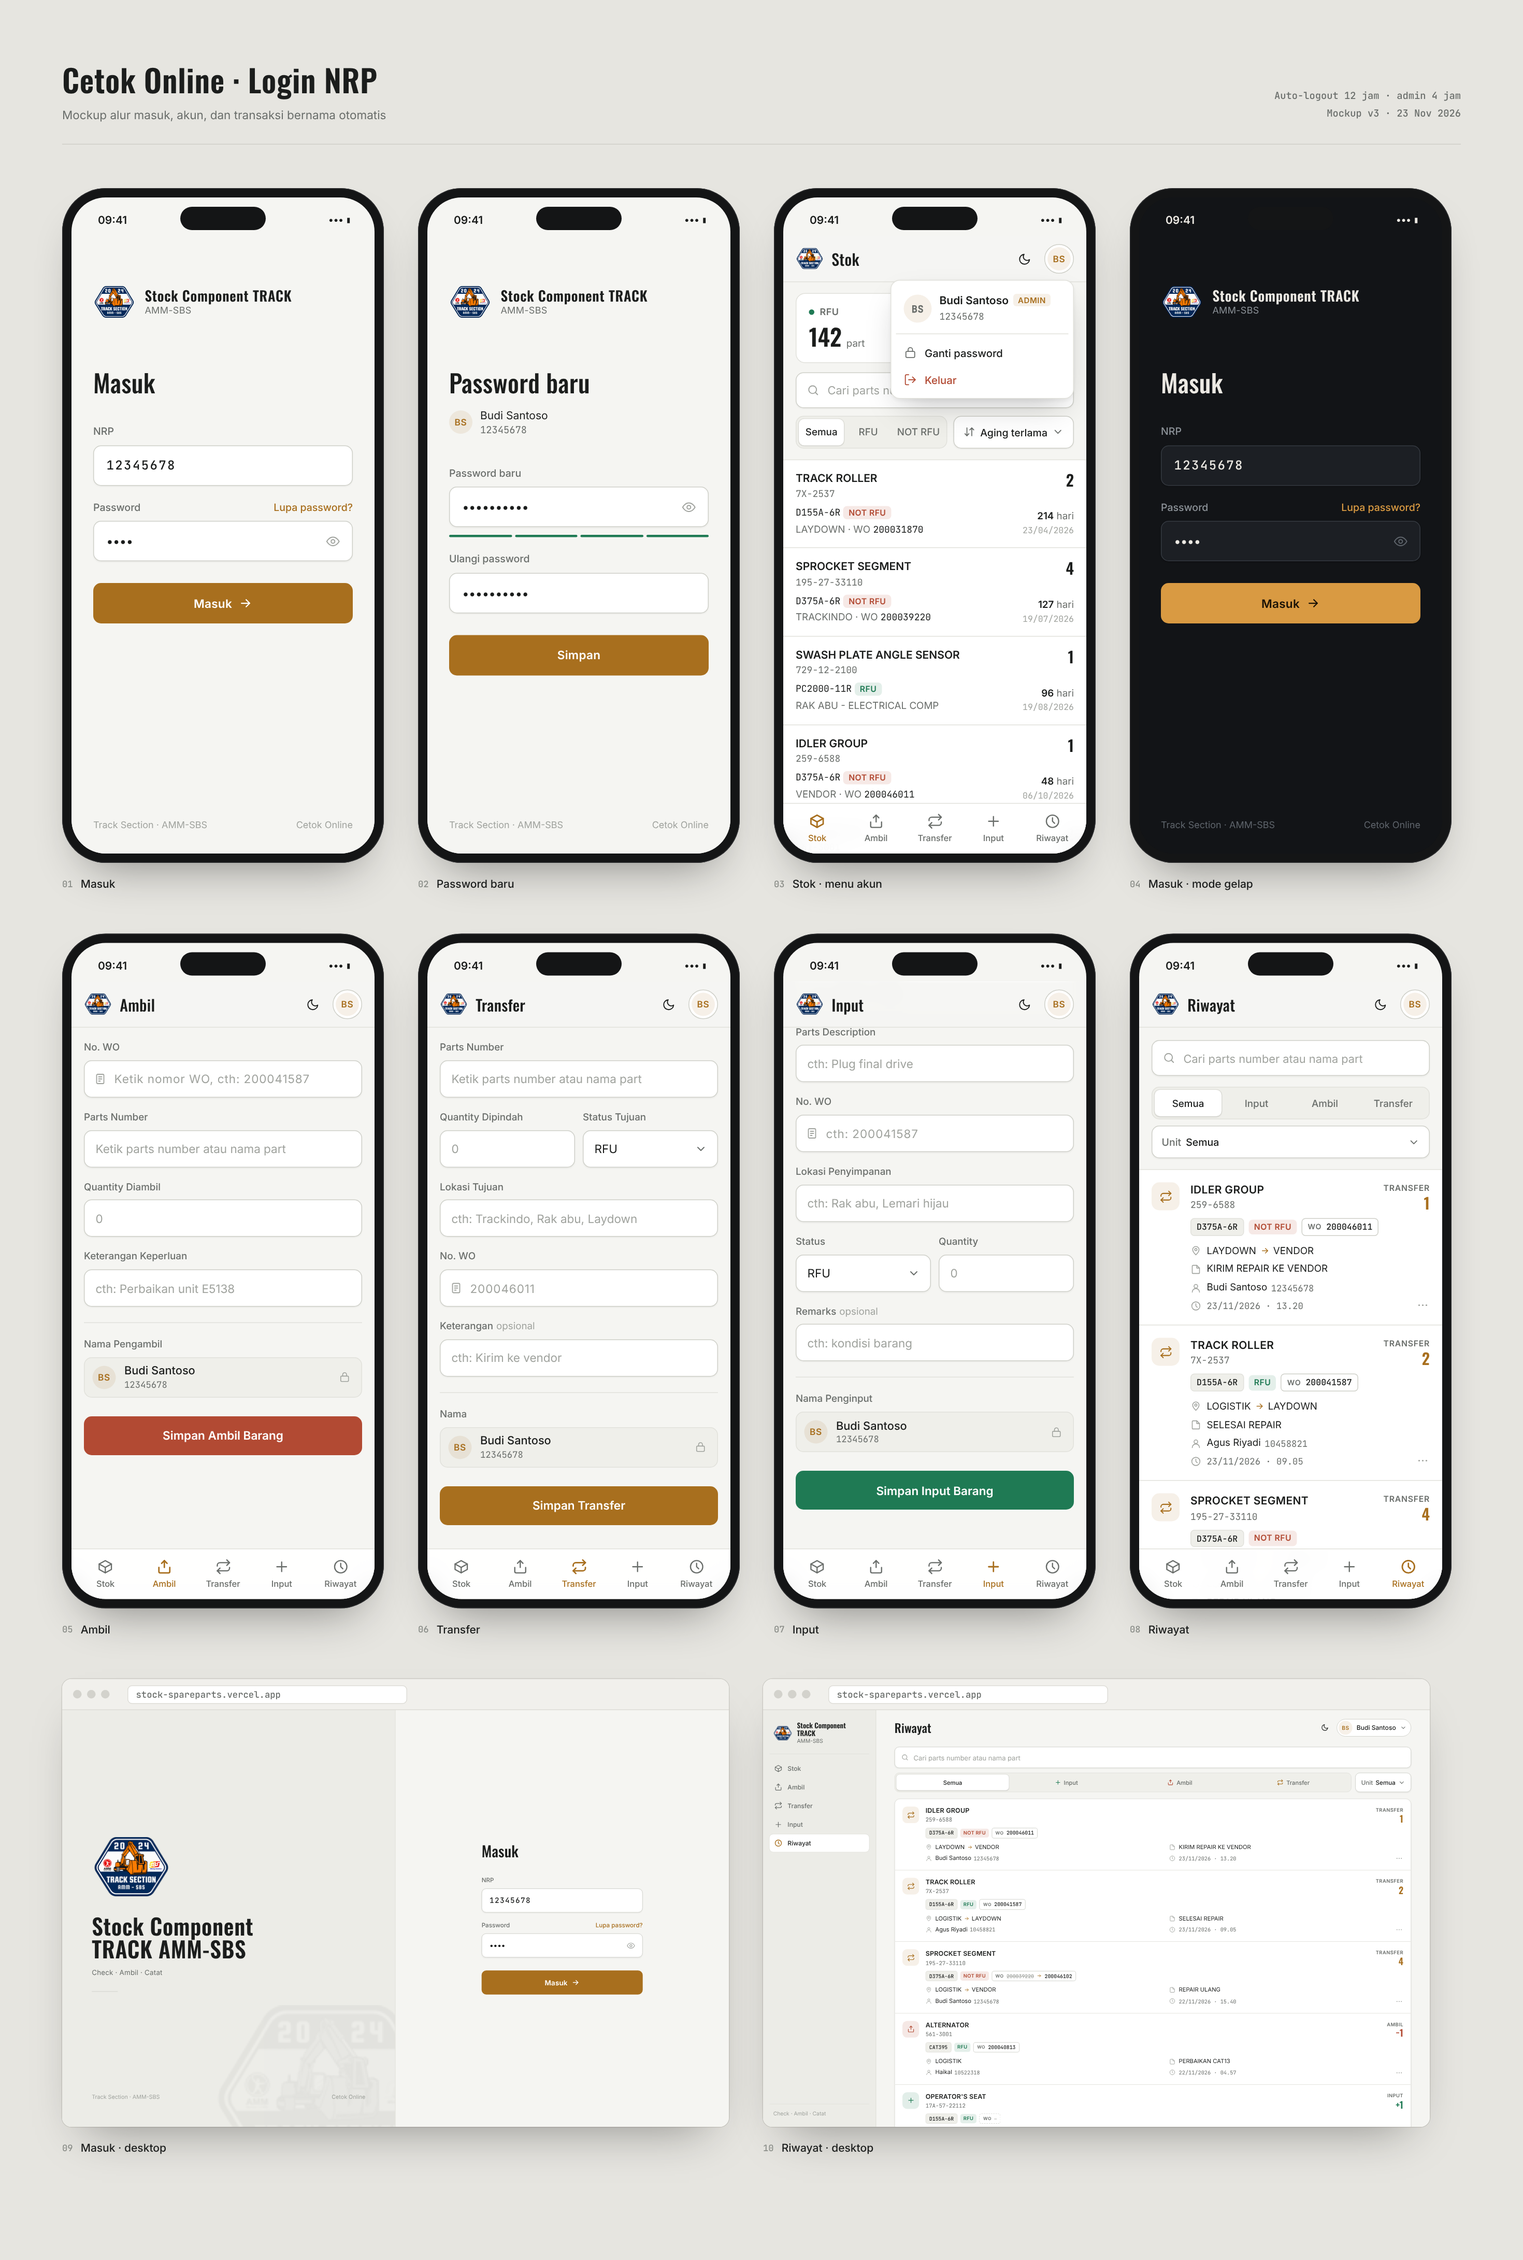
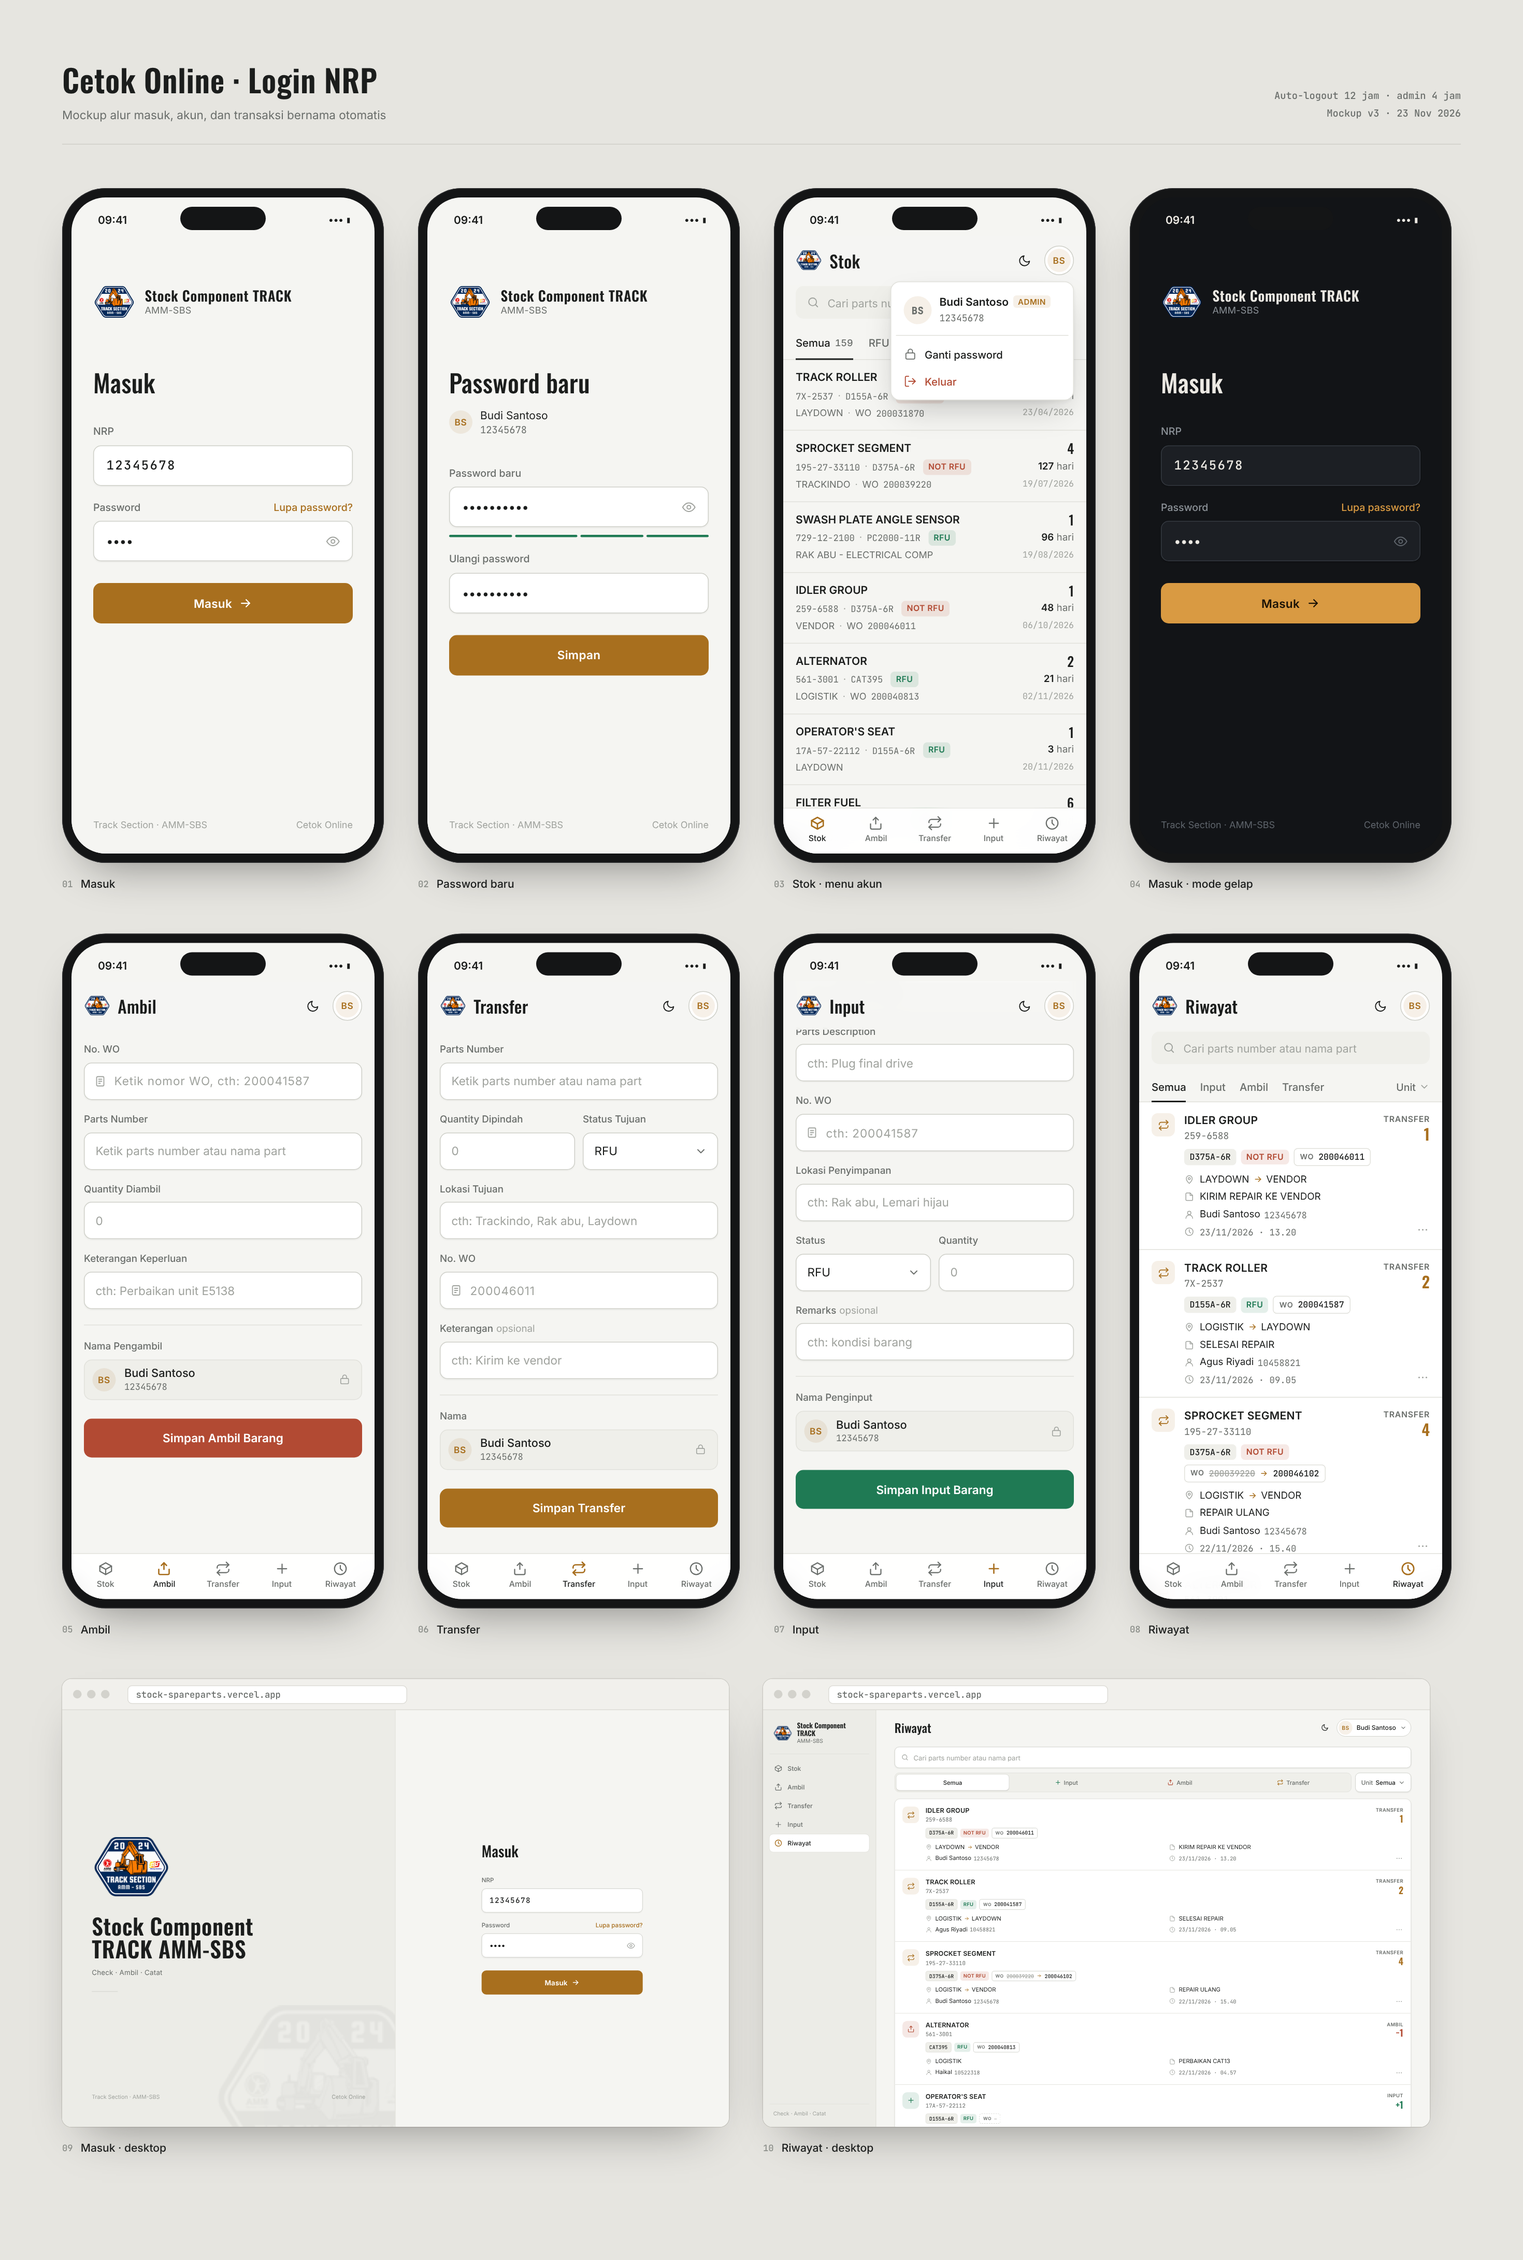
Mockup: rapikan tampilan HP (filter garis bawah, daftar stok & riwayat lebih ringkas)
Claude-Session: https://claude.ai/code/session_01BmAvrAgCMRpWNFrEhQ2vm5

diff --git a/mockup/login-nrp-wo/mockup-login-nrp.html b/mockup/login-nrp-wo/mockup-login-nrp.html
@@ -353,6 +353,75 @@
   .sbtn{width:100%;height:50px;border:none;border-radius:10px;font:600 15px 'Inter';cursor:pointer;margin-top:8px;color:var(--on-solid);}
   .sbtn.red{background:var(--red);} .sbtn.amber{background:var(--amber);color:var(--on-amber);} .sbtn.green{background:var(--green);}
   .div{height:1px;background:var(--line);margin:20px 0 18px;}
+
+  /* ================= HP (v2) ================= */
+  .mf{display:none;}
+  @media (max-width:899px){
+    .top{padding:12px 16px;border-bottom:none;}
+    .m-logo{height:26px;}
+    .ttl h1{font-size:22px;}
+    #t-stok .stats2{display:none;}
+    #t-stok .sbar{display:none;}
+    .tools{padding:0 16px;}
+    .tools .search{margin:2px 0 0;}
+    .search input{height:42px !important;background:var(--soft) !important;border-color:transparent !important;border-radius:10px !important;box-shadow:none !important;font-size:14px;}
+    .search input:focus{background:var(--field) !important;border-color:var(--line-2) !important;}
+    .mf{display:flex;align-items:center;justify-content:space-between;gap:8px;padding:0 8px 0 16px;margin-top:10px;border-bottom:1px solid var(--line);}
+    .mtabs{display:flex;gap:20px;}
+    .mtabs button{all:unset;cursor:pointer;display:flex;align-items:center;gap:6px;padding:11px 0 10px;font-size:13.5px;font-weight:500;color:var(--muted);border-bottom:2px solid transparent;margin-bottom:-1px;}
+    .mtabs button span{font-size:12px;font-variant-numeric:tabular-nums;color:var(--faint);font-weight:500;}
+    .mtabs button.on{color:var(--text);border-bottom-color:var(--text);}
+    .mtabs button.on span{color:var(--muted);}
+    .mico{all:unset;cursor:pointer;display:grid;place-items:center;width:36px;height:36px;border-radius:8px;color:var(--muted);}
+    .mico svg{width:17px;height:17px;}
+    .mico:hover{background:var(--soft);}
+    .rlist{border-top:none !important;}
+    .rlist.cards{background:transparent;}
+    .pc{display:grid;grid-template-columns:minmax(0,1fr) auto;column-gap:16px;row-gap:3px;padding:13px 16px;border-bottom:1px solid var(--line);}
+    .pc-t{font-size:14px;font-weight:600;line-height:1.35;white-space:nowrap;overflow:hidden;text-overflow:ellipsis;}
+    .pc-q{font-family:'Oswald',sans-serif;font-size:17px;font-weight:500;line-height:1.2;text-align:right;}
+    .pc-m{margin:0 !important;font-size:12.5px;color:var(--muted);display:flex;align-items:center;flex-wrap:wrap;gap:0 6px;min-width:0;}
+    .pc-m .mono{font-size:11.5px;color:var(--muted);}
+    .pc-m .st{margin-left:4px;}
+    .pc-l2{font-size:12px;}
+    .pc-l2 .mono{color:var(--muted);}
+    .sep{color:var(--faint);}
+    .pc-a{margin:0;font-size:12.5px;text-align:right;color:var(--muted);white-space:nowrap;}
+    .pc-a b{color:var(--text);font-weight:600;}
+    .pc-d{font-size:11px;text-align:right;color:var(--faint);}
+    .pager{justify-content:space-between;padding:14px 16px;border-top:none;}
+    .pager span{font-size:12px;color:var(--muted);}
+    .pager button{height:34px;padding:0 12px;font-size:12.5px;}
+    /* riwayat */
+    #t-riwayat .search{margin:2px 16px 0 !important;}
+    #t-riwayat .fbar{flex-wrap:nowrap;gap:4px;padding:0 8px 0 16px;margin-top:10px;border-bottom:1px solid var(--line);}
+    #t-riwayat .seg{flex:1 1 auto !important;flex-basis:auto !important;display:flex;gap:18px;background:none;border:none;padding:0;border-radius:0;box-shadow:none;}
+    #t-riwayat .seg button{flex:none;background:none !important;box-shadow:none !important;border:none;border-radius:0;padding:11px 0 10px;height:auto;font-size:13.5px;font-weight:500;color:var(--muted);border-bottom:2px solid transparent;margin-bottom:-1px;}
+    #t-riwayat .seg button.on{color:var(--text);border-bottom-color:var(--text);}
+    #t-riwayat .dd-wrap{flex:none !important;position:static;}
+    #t-riwayat .dd{width:auto !important;height:34px;padding:0 8px;border:none;background:none;box-shadow:none;font-size:13px;gap:4px;}
+    #t-riwayat .dd .dd-l{color:var(--muted);font-weight:500;}
+    #t-riwayat .dd .dd-v{display:none;}
+    #t-riwayat .dd.sel .dd-l{display:none;}
+    #t-riwayat .dd.sel .dd-v{display:inline;color:var(--text);font-family:'JetBrains Mono',monospace;font-size:12px;}
+    #t-riwayat .dd svg{margin:0;width:14px;height:14px;color:var(--faint);}
+    #t-riwayat .pop{left:16px !important;right:16px !important;width:auto !important;}
+    .rc{gap:12px;padding:14px 16px;}
+    .rc-ic{width:30px;height:30px;border-radius:8px;}
+    .rc-ic svg{width:15px;height:15px;}
+    .rc-u{margin-top:7px;}
+    .unit{border:none;}
+    .woc{border-color:var(--line);}
+    .rc-m{gap:4px;margin-top:8px;}
+    .mi{font-size:12.5px;color:var(--muted);}
+    .mi span{color:var(--text);}
+    .mi svg{width:13px;height:13px;}
+    .tabs{padding-top:4px;}
+    .tabs span{font-size:10.5px;gap:2px;padding:5px 2px;}
+    .tabs span svg{width:20px;height:20px;}
+    .tabs span.on{color:var(--text);}
+    .tabs span.on svg{color:var(--amber);}
+  }
 </style>
 </head>
 <body>
@@ -477,90 +546,38 @@
           <button class="dd"><svg viewBox="0 0 24 24" fill="none" stroke="currentColor" stroke-width="1.9" stroke-linecap="round" stroke-linejoin="round"><path d="M7 4v16"/><path d="m3 16 4 4 4-4"/><path d="M17 20V4"/><path d="m13 8 4-4 4 4"/></svg><span class="dd-v">Aging terlama</span><svg viewBox="0 0 24 24" fill="none" stroke="currentColor" stroke-width="2" stroke-linecap="round" stroke-linejoin="round"><path d="m6 9 6 6 6-6"/></svg></button>
         </div>
       </div>
+      <div class="mf">
+        <div class="mtabs"><button class="on">Semua<span>159</span></button><button>RFU<span>142</span></button><button>NOT RFU<span>17</span></button></div>
+        <button class="mico" aria-label="Urutkan"><svg viewBox="0 0 24 24" fill="none" stroke="currentColor" stroke-width="1.9" stroke-linecap="round" stroke-linejoin="round"><path d="M7 4v16"/><path d="m3 16 4 4 4-4"/><path d="M17 20V4"/><path d="m13 8 4-4 4 4"/></svg></button>
+      </div>
       <div class="rlist cards"><div class="pc">
-        <div class="pc-l">
-          <div class="pc-t">TRACK ROLLER</div>
-          <div class="pc-pn mono">7X-2537</div>
-          <div class="pc-m"><span class="mono">D155A-6R</span> <span class="st r">NOT RFU</span></div>
-          <div class="pc-m">LAYDOWN · WO <span class="mono">200031870</span></div>
-        </div>
-        <div class="pc-r">
-          <div class="pc-q">2</div>
-          <div class="pc-a"><b>214</b> hari</div>
-          <div class="pc-d mono">23/04/2026</div>
-        </div>
+        <div class="pc-t">TRACK ROLLER</div><div class="pc-q">2</div>
+        <div class="pc-m"><span class="mono">7X-2537</span><span class="sep">·</span><span class="mono">D155A-6R</span><span class="st r">NOT RFU</span></div><div class="pc-a"><b>214</b> hari</div>
+        <div class="pc-m pc-l2">LAYDOWN<span class="sep">·</span>WO <span class="mono">200031870</span></div><div class="pc-d mono">23/04/2026</div>
       </div><div class="pc">
-        <div class="pc-l">
-          <div class="pc-t">SPROCKET SEGMENT</div>
-          <div class="pc-pn mono">195-27-33110</div>
-          <div class="pc-m"><span class="mono">D375A-6R</span> <span class="st r">NOT RFU</span></div>
-          <div class="pc-m">TRACKINDO · WO <span class="mono">200039220</span></div>
-        </div>
-        <div class="pc-r">
-          <div class="pc-q">4</div>
-          <div class="pc-a"><b>127</b> hari</div>
-          <div class="pc-d mono">19/07/2026</div>
-        </div>
+        <div class="pc-t">SPROCKET SEGMENT</div><div class="pc-q">4</div>
+        <div class="pc-m"><span class="mono">195-27-33110</span><span class="sep">·</span><span class="mono">D375A-6R</span><span class="st r">NOT RFU</span></div><div class="pc-a"><b>127</b> hari</div>
+        <div class="pc-m pc-l2">TRACKINDO<span class="sep">·</span>WO <span class="mono">200039220</span></div><div class="pc-d mono">19/07/2026</div>
       </div><div class="pc">
-        <div class="pc-l">
-          <div class="pc-t">SWASH PLATE ANGLE SENSOR</div>
-          <div class="pc-pn mono">729-12-2100</div>
-          <div class="pc-m"><span class="mono">PC2000-11R</span> <span class="st g">RFU</span></div>
-          <div class="pc-m">RAK ABU - ELECTRICAL COMP</div>
-        </div>
-        <div class="pc-r">
-          <div class="pc-q">1</div>
-          <div class="pc-a"><b>96</b> hari</div>
-          <div class="pc-d mono">19/08/2026</div>
-        </div>
+        <div class="pc-t">SWASH PLATE ANGLE SENSOR</div><div class="pc-q">1</div>
+        <div class="pc-m"><span class="mono">729-12-2100</span><span class="sep">·</span><span class="mono">PC2000-11R</span><span class="st g">RFU</span></div><div class="pc-a"><b>96</b> hari</div>
+        <div class="pc-m pc-l2">RAK ABU - ELECTRICAL COMP</div><div class="pc-d mono">19/08/2026</div>
       </div><div class="pc">
-        <div class="pc-l">
-          <div class="pc-t">IDLER GROUP</div>
-          <div class="pc-pn mono">259-6588</div>
-          <div class="pc-m"><span class="mono">D375A-6R</span> <span class="st r">NOT RFU</span></div>
-          <div class="pc-m">VENDOR · WO <span class="mono">200046011</span></div>
-        </div>
-        <div class="pc-r">
-          <div class="pc-q">1</div>
-          <div class="pc-a"><b>48</b> hari</div>
-          <div class="pc-d mono">06/10/2026</div>
-        </div>
+        <div class="pc-t">IDLER GROUP</div><div class="pc-q">1</div>
+        <div class="pc-m"><span class="mono">259-6588</span><span class="sep">·</span><span class="mono">D375A-6R</span><span class="st r">NOT RFU</span></div><div class="pc-a"><b>48</b> hari</div>
+        <div class="pc-m pc-l2">VENDOR<span class="sep">·</span>WO <span class="mono">200046011</span></div><div class="pc-d mono">06/10/2026</div>
       </div><div class="pc">
-        <div class="pc-l">
-          <div class="pc-t">ALTERNATOR</div>
-          <div class="pc-pn mono">561-3001</div>
-          <div class="pc-m"><span class="mono">CAT395</span> <span class="st g">RFU</span></div>
-          <div class="pc-m">LOGISTIK · WO <span class="mono">200040813</span></div>
-        </div>
-        <div class="pc-r">
-          <div class="pc-q">2</div>
-          <div class="pc-a"><b>21</b> hari</div>
-          <div class="pc-d mono">02/11/2026</div>
-        </div>
+        <div class="pc-t">ALTERNATOR</div><div class="pc-q">2</div>
+        <div class="pc-m"><span class="mono">561-3001</span><span class="sep">·</span><span class="mono">CAT395</span><span class="st g">RFU</span></div><div class="pc-a"><b>21</b> hari</div>
+        <div class="pc-m pc-l2">LOGISTIK<span class="sep">·</span>WO <span class="mono">200040813</span></div><div class="pc-d mono">02/11/2026</div>
       </div><div class="pc">
-        <div class="pc-l">
-          <div class="pc-t">OPERATOR'S SEAT</div>
-          <div class="pc-pn mono">17A-57-22112</div>
-          <div class="pc-m"><span class="mono">D155A-6R</span> <span class="st g">RFU</span></div>
-          <div class="pc-m">LAYDOWN</div>
-        </div>
-        <div class="pc-r">
-          <div class="pc-q">1</div>
-          <div class="pc-a"><b>3</b> hari</div>
-          <div class="pc-d mono">20/11/2026</div>
-        </div>
+        <div class="pc-t">OPERATOR'S SEAT</div><div class="pc-q">1</div>
+        <div class="pc-m"><span class="mono">17A-57-22112</span><span class="sep">·</span><span class="mono">D155A-6R</span><span class="st g">RFU</span></div><div class="pc-a"><b>3</b> hari</div>
+        <div class="pc-m pc-l2">LAYDOWN</div><div class="pc-d mono">20/11/2026</div>
       </div><div class="pc">
-        <div class="pc-l">
-          <div class="pc-t">FILTER FUEL</div>
-          <div class="pc-pn mono">1R-0749</div>
-          <div class="pc-m"><span class="mono">PC1250SP-11</span> <span class="st g">RFU</span></div>
-          <div class="pc-m">RAK A-03</div>
-        </div>
-        <div class="pc-r">
-          <div class="pc-q">6</div>
-          <div class="pc-a"><b>0</b> hari</div>
-          <div class="pc-d mono">23/11/2026</div>
-        </div>
+        <div class="pc-t">FILTER FUEL</div><div class="pc-q">6</div>
+        <div class="pc-m"><span class="mono">1R-0749</span><span class="sep">·</span><span class="mono">PC1250SP-11</span><span class="st g">RFU</span></div><div class="pc-a"><b>0</b> hari</div>
+        <div class="pc-m pc-l2">RAK A-03</div><div class="pc-d mono">23/11/2026</div>
       </div></div>
       <div class="tbl-wrap"><table class="tbl">
         <thead><tr><th>Part</th><th>Unit</th><th>Status</th><th>WO</th><th>Lokasi</th><th class="num">Qty</th><th class="num">Aging</th></tr></thead>
@@ -780,7 +797,7 @@
   document.querySelectorAll('#tabs [data-tab]').forEach(x => x.onclick = () => tab(x.dataset.tab));
   document.querySelectorAll('#seg button').forEach(b => b.onclick = () => { document.querySelectorAll('#seg button').forEach(x=>x.classList.remove('on')); b.classList.add('on'); });
   $('unitBtn').onclick = e => { e.stopPropagation(); $('unitPop').classList.toggle('on'); };
-  document.querySelectorAll('#unitPop button').forEach(b => b.onclick = () => { $('unitVal').textContent = b.textContent.trim() === 'Semua unit' ? 'Semua' : b.textContent.trim(); $('unitPop').classList.remove('on'); });
+  document.querySelectorAll('#unitPop button').forEach(b => b.onclick = () => { $('unitVal').textContent = b.textContent.trim() === 'Semua unit' ? 'Semua' : b.textContent.trim(); $('unitPop').classList.remove('on'); $('unitBtn').classList.toggle('sel', $('unitVal').textContent !== 'Semua'); });
   document.addEventListener('click', e => { if(!e.target.closest('.pop')) $('unitPop').classList.remove('on'); });
 
 
